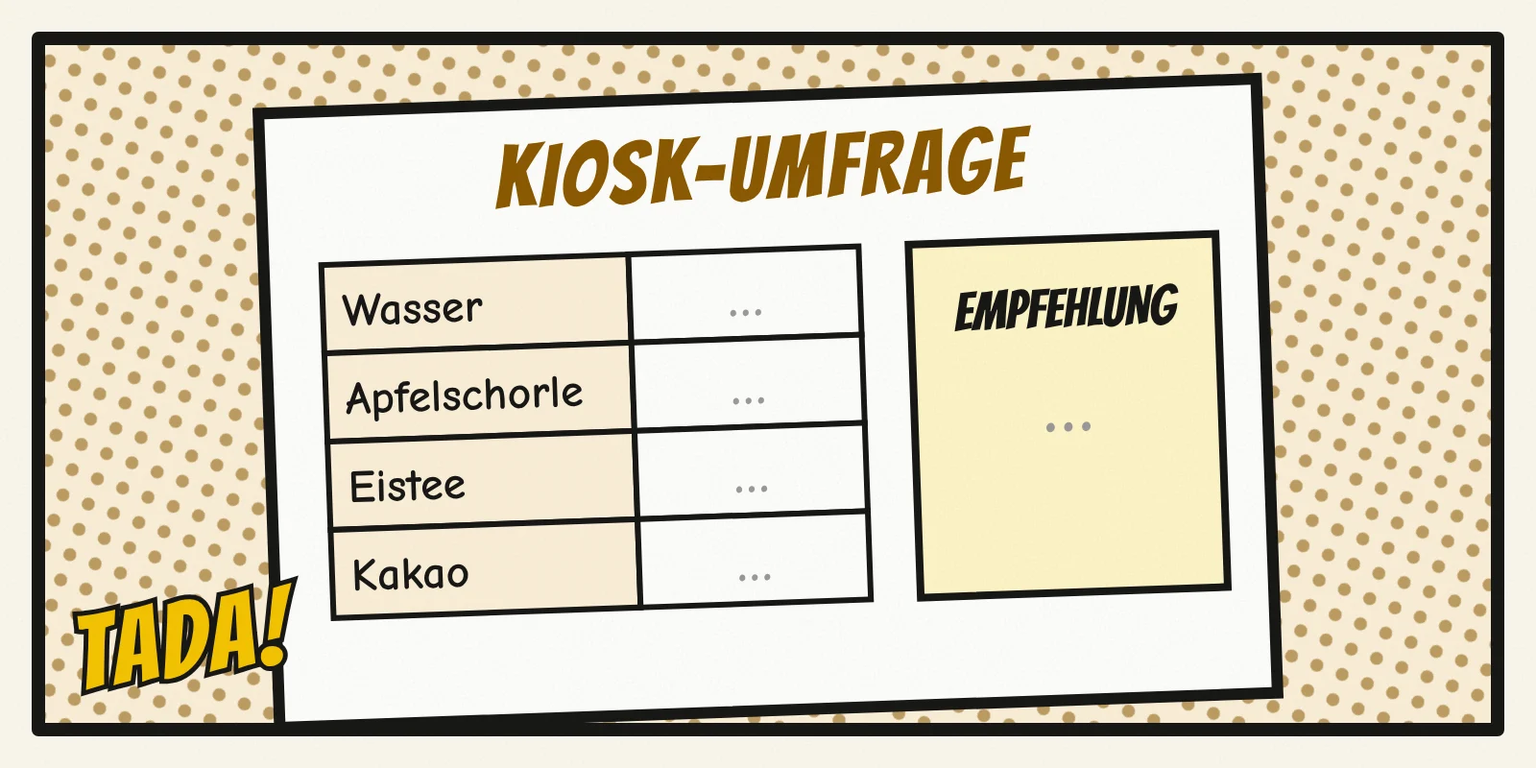
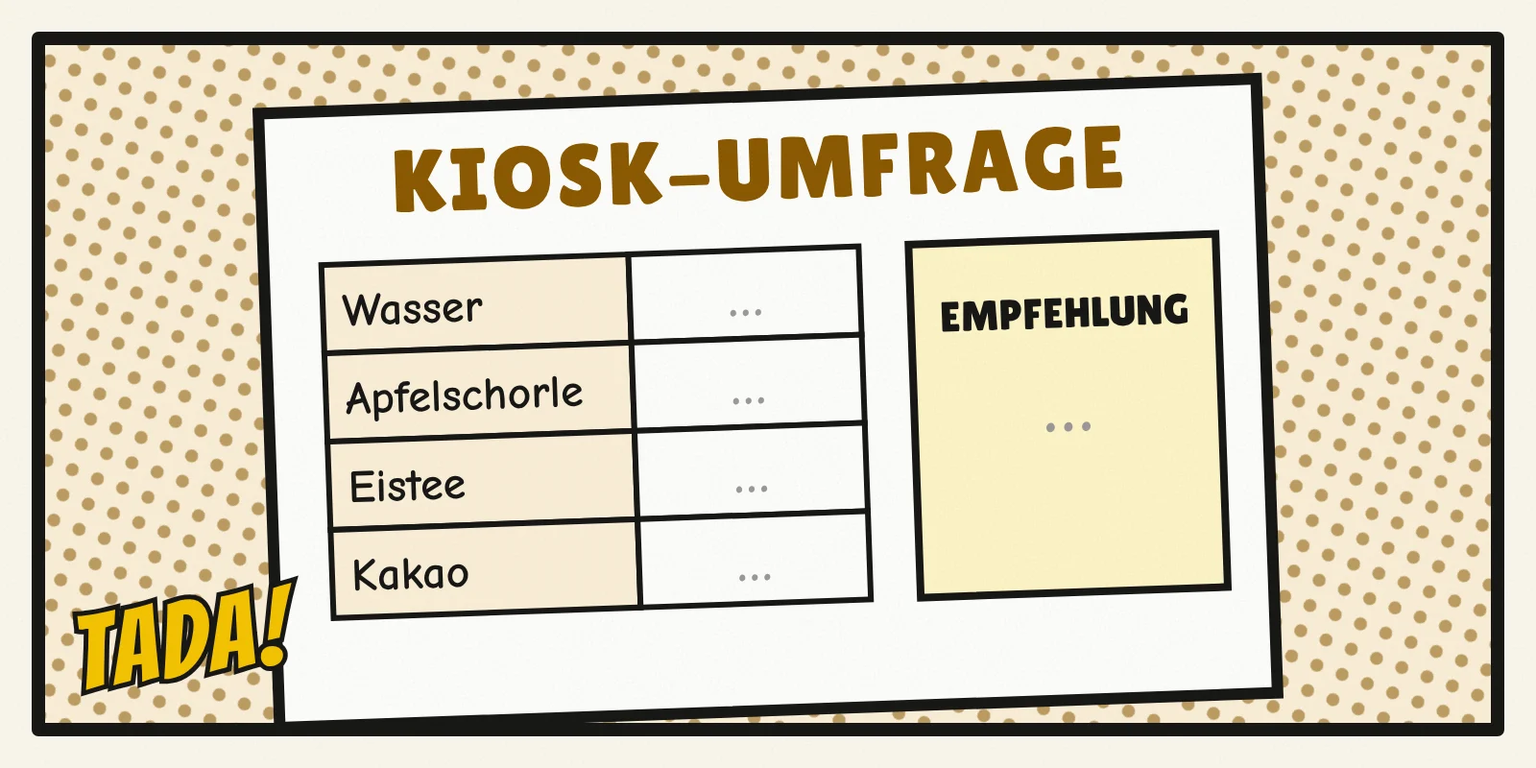
Bildwelt Comic: Lilita One statt Bangers für Überschriften und Beschriftungen
Ziffern und Gradzeichen waren in Bangers schlecht lesbar. Seiten (bildwelten.css) und Bilder aller Comic-Lernsituationen (Scooter, Kiosk, Drohne, Lichtwerk, Pizzabote, Drehleiter) neu gerendert; Bangers nur noch für Geräuschwörter. Regel im Skill ergänzt.

Claude-Session: https://claude.ai/code/session_01Aw7YPETzU1TFRJXXJhRhx4

Changed region(s): [[0.25, 0.1562, 0.75, 0.2812], [0.5938, 0.375, 0.7812, 0.4375]]

diff --git a/mathe-trainer/src/pages/lineare_funktionen/punkt_gerade_einstieg/bilder-quelle/drohne-titel.bild.html b/mathe-trainer/src/pages/lineare_funktionen/punkt_gerade_einstieg/bilder-quelle/drohne-titel.bild.html
@@ -1,7 +1,7 @@
 <!doctype html>
 <!-- Der Drohnen-Parcours, Titelbild. Bildwelt Comic / retro: drei Panels (Plakat Lichtshow, Drohne vor den Ringen, Hangar-Tor mit Code-Schloss).
      Rendern: node scripts/bilder-rendern.cjs src/pages/lineare_funktionen/punkt_gerade_einstieg -->
-<html><head><meta charset="utf-8"><link href="https://fonts.googleapis.com/css2?family=Bangers&family=Comic+Neue:wght@700&display=swap" rel="stylesheet"><style>body{margin:0}</style>
+<html><head><meta charset="utf-8"><link href="https://fonts.googleapis.com/css2?family=Bangers&family=Lilita+One&family=Comic+Neue:wght@700&display=swap" rel="stylesheet"><style>body{margin:0}</style>
 <script src="_comic.js"></script></head><body>
 <div id="bild" style="width:1200px;height:600px"></div>
 <script>
@@ -11,13 +11,13 @@ const drohne = (x, y, s = 1) => `<g transform="translate(${x} ${y}) scale(${s})"
  <line x1="-70" y1="-10" x2="70" y2="-10"/><rect x="-34" y="-26" width="68" height="34" rx="10" fill="#8a5800"/><circle cx="0" cy="-9" r="9" fill="#f2b632"/>
  <ellipse cx="-70" cy="-20" rx="34" ry="7" fill="#fff"/><ellipse cx="70" cy="-20" rx="34" ry="7" fill="#fff"/><line x1="-70" y1="-10" x2="-70" y2="-20"/><line x1="70" y1="-10" x2="70" y2="-20"/>
  <line x1="-20" y1="8" x2="-28" y2="22"/><line x1="20" y1="8" x2="28" y2="22"/></g>`;
-const ring = (x, y, r, name) => `<ellipse cx="${x}" cy="${y}" rx="${r * 0.55}" ry="${r}" fill="none" stroke="${ink}" stroke-width="12"/><ellipse cx="${x}" cy="${y}" rx="${r * 0.55}" ry="${r}" fill="none" stroke="#f2b632" stroke-width="6"/><text x="${x}" y="${y - r - 14}" font-family="Bangers" font-size="34" text-anchor="middle" fill="${ink}">${name}</text>`;
+const ring = (x, y, r, name) => `<ellipse cx="${x}" cy="${y}" rx="${r * 0.55}" ry="${r}" fill="none" stroke="${ink}" stroke-width="12"/><ellipse cx="${x}" cy="${y}" rx="${r * 0.55}" ry="${r}" fill="none" stroke="#f2b632" stroke-width="6"/><text x="${x}" y="${y - r - 14}" font-family="Lilita One" font-size="34" text-anchor="middle" fill="${ink}">${name}</text>`;
 let s = '';
 // Panel 1: Plakat
 s += C.panel('p1', '24,24 330,24 314,576 24,576', 'url(#pT)',
   `<g transform="rotate(-4 170 300)"><rect x="60" y="120" width="220" height="300" fill="#fff" stroke="${ink}" stroke-width="5"/>
-  <text x="170" y="190" font-family="Bangers" font-size="44" text-anchor="middle" fill="#8a5800">SCHULFEST</text>
-  <text x="170" y="250" font-family="Bangers" font-size="40" text-anchor="middle" fill="${ink}">LICHTSHOW</text>
+  <text x="170" y="190" font-family="Lilita One" font-size="44" text-anchor="middle" fill="#8a5800">SCHULFEST</text>
+  <text x="170" y="250" font-family="Lilita One" font-size="34" text-anchor="middle" fill="${ink}">LICHTSHOW</text>
   <text x="170" y="290" font-family="Comic Neue" font-weight="700" font-size="24" text-anchor="middle" fill="${ink}">mit Drohne</text>
   <circle cx="120" cy="350" r="22" fill="none" stroke="#f2b632" stroke-width="8"/><circle cx="170" cy="365" r="22" fill="none" stroke="#f2b632" stroke-width="8"/><circle cx="220" cy="350" r="22" fill="none" stroke="#f2b632" stroke-width="8"/></g>` +
   C.kasten(46, 470, 250, 70, 'Freitag, 21 Uhr', 30, 2));
@@ -31,8 +31,8 @@ s += C.panel('p2', '346,24 850,24 836,576 330,576', 'url(#pF)',
 s += C.panel('p3', '866,24 1176,24 1176,576 852,576', 'url(#pG)',
   `<rect x="890" y="170" width="262" height="380" fill="#c9b48a" stroke="${ink}" stroke-width="6"/>` +
   [0, 1, 2, 3, 4, 5].map((i) => `<line x1="890" x2="1152" y1="${220 + i * 55}" y2="${220 + i * 55}" stroke="${ink}" stroke-width="3"/>`).join('') +
-  `<rect x="926" y="300" width="190" height="110" rx="10" fill="#fff" stroke="${ink}" stroke-width="5"/><text x="1021" y="340" font-family="Bangers" font-size="30" text-anchor="middle" fill="${ink}">CODE</text>` +
-  [0, 1, 2].map((i) => `<rect x="${944 + i * 56}" y="352" width="44" height="44" rx="6" fill="#fbe8b8" stroke="${ink}" stroke-width="4"/><text x="${966 + i * 56}" y="386" font-family="Bangers" font-size="32" text-anchor="middle" fill="${ink}">?</text>`).join('') +
+  `<rect x="926" y="300" width="190" height="110" rx="10" fill="#fff" stroke="${ink}" stroke-width="5"/><text x="1021" y="340" font-family="Lilita One" font-size="30" text-anchor="middle" fill="${ink}">CODE</text>` +
+  [0, 1, 2].map((i) => `<rect x="${944 + i * 56}" y="352" width="44" height="44" rx="6" fill="#fbe8b8" stroke="${ink}" stroke-width="4"/><text x="${966 + i * 56}" y="386" font-family="Lilita One" font-size="32" text-anchor="middle" fill="${ink}">?</text>`).join('') +
   C.kasten(884, 60, 270, 74, 'HANGAR-TOR', 38, -2));
 document.getElementById('bild').innerHTML = `<svg xmlns="http://www.w3.org/2000/svg" width="1200" height="600" viewBox="0 0 1200 600">${C.defs}${C.papier(1200, 600)}${s}${C.korn(1200, 600)}</svg>`;
 </script>

diff --git a/mathe-trainer/src/pages/trigonometrie/strecken_einstieg/bilder-quelle/drehleiter-einsatz.bild.html b/mathe-trainer/src/pages/trigonometrie/strecken_einstieg/bilder-quelle/drehleiter-einsatz.bild.html
@@ -1,7 +1,7 @@
 <!doctype html>
 <!-- Die Drehleiter, Problem lösen. Bildwelt Comic / pop: Einsatzplan an der Tafel (rechtwinkliges Dreieck aus Leiter 30 m, Wand und Boden, 70°, h = ?, d = ?).
      Rendern: node scripts/bilder-rendern.cjs src/pages/trigonometrie/strecken_einstieg -->
-<html><head><meta charset="utf-8"><link href="https://fonts.googleapis.com/css2?family=Bangers&family=Comic+Neue:wght@700&display=swap" rel="stylesheet"><style>body{margin:0}</style>
+<html><head><meta charset="utf-8"><link href="https://fonts.googleapis.com/css2?family=Bangers&family=Lilita+One&family=Comic+Neue:wght@700&display=swap" rel="stylesheet"><style>body{margin:0}</style>
 <script src="_comic.js"></script><script src="_drehleiter.js"></script></head><body>
 <div id="bild" style="width:1200px;height:600px"></div>
 <script>
@@ -15,22 +15,22 @@ s += C.panel('p1', '24,24 1176,24 1170,576 30,576', 'url(#pT)',
   // Tafel
   `<rect x="150" y="60" width="900" height="500" rx="14" fill="#fff" stroke="${ink}" stroke-width="7"/>` +
   `<rect x="150" y="60" width="900" height="70" fill="${k}" stroke="${ink}" stroke-width="7"/>` +
-  `<text x="600" y="110" text-anchor="middle" font-family="Bangers" font-size="48" fill="#fff" letter-spacing="2">EINSATZPLAN DREHLEITER</text>` +
+  `<text x="600" y="110" text-anchor="middle" font-family="Lilita One" font-size="48" fill="#fff" letter-spacing="2">EINSATZPLAN DREHLEITER</text>` +
   // Dreieck
   `<polygon points="${A} ${B} ${S}" fill="#fbece3" stroke="none"/>` +
   `<line x1="${A[0]}" y1="${A[1]}" x2="${S[0]}" y2="${S[1]}" stroke="${k}" stroke-width="10" stroke-linecap="round"/>` +
   `<line x1="${A[0]}" y1="${A[1]}" x2="${B[0]}" y2="${B[1]}" stroke="${ink}" stroke-width="6"/>` +
   `<line x1="${B[0]}" y1="${B[1]}" x2="${S[0]}" y2="${S[1]}" stroke="${ink}" stroke-width="6"/>` +
   `<path d="M${B[0] - 26} ${B[1]} v-26 h26" fill="none" stroke="${ink}" stroke-width="4"/>` +
-  DL.winkel(A[0], A[1], w, 60, '', 42).replace(/<line[^>]*\/>/, '') + `<text x="${A[0] - 40}" y="${A[1] - 26}" text-anchor="end" font-family="Bangers" font-size="46" fill="${ink}" letter-spacing="1">70°</text><path d="M${A[0] - 36} ${A[1] - 40} Q${A[0] + 4} ${A[1] - 60} ${A[0] + 30} ${A[1] - 26}" fill="none" stroke="${ink}" stroke-width="3"/>` +
-  `<text x="${(A[0] + S[0]) / 2 - 30}" y="${(A[1] + S[1]) / 2}" text-anchor="end" font-family="Bangers" font-size="46" fill="${k}" letter-spacing="1">Leiter 30 m</text>` +
+  DL.winkel(A[0], A[1], w, 60, '', 42).replace(/<line[^>]*\/>/, '') + `<text x="${A[0] - 40}" y="${A[1] - 26}" text-anchor="end" font-family="Lilita One" font-size="46" fill="${ink}" letter-spacing="1">70°</text><path d="M${A[0] - 36} ${A[1] - 40} Q${A[0] + 4} ${A[1] - 60} ${A[0] + 30} ${A[1] - 26}" fill="none" stroke="${ink}" stroke-width="3"/>` +
+  `<text x="${(A[0] + S[0]) / 2 - 30}" y="${(A[1] + S[1]) / 2}" text-anchor="end" font-family="Lilita One" font-size="46" fill="${k}" letter-spacing="1">Leiter 30 m</text>` +
   `<text x="${B[0] + 22}" y="${(B[1] + S[1]) / 2 + 14}" font-family="Comic Neue" font-weight="700" font-style="italic" font-size="46" fill="${ink}">h = ?</text>` +
   `<text x="${(A[0] + B[0]) / 2}" y="${A[1] + 46}" text-anchor="middle" font-family="Comic Neue" font-weight="700" font-style="italic" font-size="44" fill="${ink}">d = ?</text>` +
   `<text x="${B[0] + 22}" y="${S[1] + 10}" font-family="Comic Neue" font-weight="700" font-size="28" fill="${ink}">Spitze an der Wand</text>` +
   `<text x="${A[0] - 20}" y="${A[1] + 46}" text-anchor="end" font-family="Comic Neue" font-weight="700" font-size="28" fill="${ink}">Drehpunkt</text>` +
   // Notizzettel rechts
   `<g transform="rotate(4 900 380)"><rect x="790" y="260" width="230" height="200" fill="#fff6c9" stroke="${ink}" stroke-width="5"/>` +
-  `<text x="905" y="310" text-anchor="middle" font-family="Bangers" font-size="34" fill="${ink}" letter-spacing="1">GESUCHT</text>` +
+  `<text x="905" y="310" text-anchor="middle" font-family="Lilita One" font-size="34" fill="${ink}" letter-spacing="1">GESUCHT</text>` +
   `<text x="905" y="360" text-anchor="middle" font-family="Comic Neue" font-weight="700" font-size="26" fill="${ink}">Höhe h der Spitze</text>` +
   `<text x="905" y="400" text-anchor="middle" font-family="Comic Neue" font-weight="700" font-size="26" fill="${ink}">Abstand d</text>` +
   `<text x="905" y="434" text-anchor="middle" font-family="Comic Neue" font-weight="700" font-size="26" fill="${ink}">zur Wand</text></g>`);

diff --git a/mathe-trainer/src/pages/lineare_funktionen/lernsituation_kit/bildwelten.css b/mathe-trainer/src/pages/lineare_funktionen/lernsituation_kit/bildwelten.css
@@ -28,7 +28,7 @@
 @import '@fontsource/barlow-condensed/500.css';
 @import '@fontsource/barlow-condensed/600.css';
 @import '@fontsource/barlow-condensed/700.css';
-@import '@fontsource/bangers/400.css';
+@import '@fontsource/lilita-one/400.css';
 @import '@fontsource/atkinson-hyperlegible/400.css';
 @import '@fontsource/atkinson-hyperlegible/700.css';
 @import '@fontsource/instrument-sans/400.css';
@@ -551,10 +551,11 @@
 /* ══ E Comic ═════════════════════════════════════════════════════════════════════════════════════════════════
    Die Situation als Bildergeschichte: jede Seite ein Heftblatt mit Tuscherand und hartem Versatzschatten, Bilder als Panels,
    Auftrag als Erzählkasten, Knöpfe mit dickem Rand, die beim Drücken einsinken.
-   Überschriften Bangers, Fließtext Atkinson Hyperlegible. Unter-Varianten: pop, retro, manga, storyboard. */
+   Überschriften Lilita One (kräftig, aber mit gut lesbaren Ziffern und Gradzeichen; Bangers war zu verschnörkelt, seit 2026-11-07),
+   Fließtext Atkinson Hyperlegible. Unter-Varianten: pop, retro, manga, storyboard. */
 .sl-welt-comic {
   --font-body: 'Atkinson Hyperlegible', 'Segoe UI', system-ui, sans-serif;
-  --font-display: 'Bangers', 'Impact', system-ui, sans-serif;
+  --font-display: 'Lilita One', 'Atkinson Hyperlegible', system-ui, sans-serif;
   --co-tusche: #161616;
   --co-papier: #fffdf8;
   --co-kasten: #ffe45c;
@@ -580,18 +581,18 @@
 
 .sl-welt-comic .sl-titel,
 .sl-start.sl-welt-comic h2,
-.sl-start.sl-welt-comic.sl-thema h2 { font: 400 40px/1.02 var(--font-display); letter-spacing: 0.025em; color: var(--co-tusche); }
+.sl-start.sl-welt-comic.sl-thema h2 { font: 400 34px/1.1 var(--font-display); letter-spacing: 0.01em; color: var(--co-tusche); }
 .sl-start.sl-welt-comic.sl-thema h2 { color: var(--primary); }
-.sl-welt-comic .sl-abschnitt-titel { font: 400 29px/1.1 var(--font-display); letter-spacing: 0.025em; color: var(--co-tusche); }
+.sl-welt-comic .sl-abschnitt-titel { font: 400 25px/1.15 var(--font-display); letter-spacing: 0.01em; color: var(--co-tusche); }
 .sl-welt-comic .sl-abschnitt-titel i { font-size: 20px; color: var(--primary); }
-.sl-welt-comic .sl-marke { font: 400 20px/1 var(--font-display); letter-spacing: 0.03em; border: 2px solid var(--co-tusche); }
+.sl-welt-comic .sl-marke { font: 400 18px/1 var(--font-display); letter-spacing: 0.01em; border: 2px solid var(--co-tusche); }
 .sl-welt-comic .sl-text,
 .sl-start.sl-welt-comic .sl-start-ziel { font-size: 18px; line-height: 1.55; color: var(--co-tusche); }
 .sl-welt-comic .sl-phasen li { border: 2px solid var(--co-tusche); border-radius: 3px; background: #fff; }
 
 /* Fokus = Erzählkasten */
 .sl-welt-comic .sl-fokus { margin-top: 6px; padding: 14px 18px; background: var(--co-kasten); border: var(--co-rand) solid var(--co-tusche); border-radius: 0; box-shadow: 4px 4px 0 var(--co-tusche); transform: rotate(-0.4deg); }
-.sl-welt-comic .sl-fokus-titel { font: 400 25px/1.1 var(--font-display); letter-spacing: 0.03em; color: var(--co-tusche); }
+.sl-welt-comic .sl-fokus-titel { font: 400 22px/1.2 var(--font-display); letter-spacing: 0.01em; color: var(--co-tusche); }
 .sl-welt-comic.sl-variante-manga .sl-fokus,
 .sl-welt-comic.sl-variante-storyboard .sl-fokus { transform: none; }
 .sl-start.sl-welt-comic .sl-start-regel { background: var(--co-kasten); border: var(--co-rand) solid var(--co-tusche); border-radius: 0; }

diff --git a/mathe-trainer/src/pages/quadratische_funktionen/scheitelpunkt_einstieg/bilder-quelle/lichtwerk-titel.bild.html b/mathe-trainer/src/pages/quadratische_funktionen/scheitelpunkt_einstieg/bilder-quelle/lichtwerk-titel.bild.html
@@ -1,7 +1,7 @@
 <!doctype html>
 <!-- Das Lichtwerk, Titelbild. Bildwelt Comic / manga: Schwarzweiß mit Rasterfolie, drei Panels (Tür fällt zu, Code-Display, Brunnen-Strahl).
      Rendern: node scripts/bilder-rendern.cjs src/pages/quadratische_funktionen/scheitelpunkt_einstieg -->
-<html><head><meta charset="utf-8"><link href="https://fonts.googleapis.com/css2?family=Bangers&family=Comic+Neue:wght@700&display=swap" rel="stylesheet"><style>body{margin:0}</style>
+<html><head><meta charset="utf-8"><link href="https://fonts.googleapis.com/css2?family=Bangers&family=Lilita+One&family=Comic+Neue:wght@700&display=swap" rel="stylesheet"><style>body{margin:0}</style>
 <script src="_comic.js"></script></head><body>
 <div id="bild" style="width:1200px;height:600px"></div>
 <script>
@@ -16,8 +16,8 @@ s += C.panel('p1', '24,24 420,24 400,576 24,576', 'url(#pF)',
 // Panel 2: Türdisplay mit Code
 s += C.panel('p2', '436,24 800,24 786,576 416,576', '#fff',
   `<rect x="470" y="120" width="290" height="230" rx="16" fill="#2b2b2b" stroke="${ink}" stroke-width="7"/>` +
-  `<text x="615" y="180" font-family="Bangers" font-size="40" text-anchor="middle" fill="#fff" letter-spacing="2">TÜRCODE</text>` +
-  [0, 1, 2, 3].map((i) => `<rect x="${492 + i * 64}" y="210" width="54" height="64" rx="6" fill="#fff" stroke="${ink}" stroke-width="3"/><text x="${519 + i * 64}" y="256" font-family="Bangers" font-size="40" text-anchor="middle" fill="${ink}">?</text>`).join('') +
+  `<text x="615" y="180" font-family="Lilita One" font-size="40" text-anchor="middle" fill="#fff" letter-spacing="2">TÜRCODE</text>` +
+  [0, 1, 2, 3].map((i) => `<rect x="${492 + i * 64}" y="210" width="54" height="64" rx="6" fill="#fff" stroke="${ink}" stroke-width="3"/><text x="${519 + i * 64}" y="256" font-family="Lilita One" font-size="40" text-anchor="middle" fill="${ink}">?</text>`).join('') +
   `<text x="615" y="320" font-family="Comic Neue" font-weight="700" font-size="22" text-anchor="middle" fill="#ddd">4 Teile</text>` +
   C.blase(440, 400, 330, 140, 600, 360, ['Die Zahlen stecken', 'im Brunnen, den ich', 'letzte Woche gebaut hab!'], 26));
 // Panel 3: Brunnen-Strahl als Parabel, höchster Punkt mit Fragezeichen
@@ -27,7 +27,7 @@ s += C.panel('p3', '816,24 1176,24 1176,576 802,576', 'url(#pT)',
   `<rect x="802" y="${Y(0)}" width="380" height="80" fill="#fff" stroke="${ink}" stroke-width="5"/>` +
   `<rect x="${X(0) - 10}" y="${Y(1)}" width="20" height="${Y(0) - Y(1)}" fill="${ink}"/><rect x="${X(7)}" y="${Y(1)}" width="60" height="${Y(0) - Y(1)}" fill="#fff" stroke="${ink}" stroke-width="5"/>` +
   `<polyline points="${strahl}" fill="none" stroke="#fff" stroke-width="14" stroke-linecap="round"/><polyline points="${strahl}" fill="none" stroke="${ink}" stroke-width="5" stroke-dasharray="14 8" stroke-linecap="round"/>` +
-  `<text x="${X(3.5)}" y="${Y(5.9) - 18}" font-family="Bangers" font-size="64" text-anchor="middle" fill="#fff" stroke="${ink}" stroke-width="5" paint-order="stroke">?</text>` +
+  `<text x="${X(3.5)}" y="${Y(5.9) - 18}" font-family="Lilita One" font-size="64" text-anchor="middle" fill="#fff" stroke="${ink}" stroke-width="5" paint-order="stroke">?</text>` +
   C.kasten(836, 44, 310, 62, 'Wie hoch spritzt er?', 30, -2));
 document.getElementById('bild').innerHTML = `<svg xmlns="http://www.w3.org/2000/svg" width="1200" height="600" viewBox="0 0 1200 600">${C.defs}${C.papier(1200, 600)}${s}${C.korn(1200, 600)}</svg>`;
 </script>

diff --git a/mathe-trainer/src/pages/lineare_funktionen/funktionsgleichung_einstieg/bilder-quelle/scooter-app.bild.html b/mathe-trainer/src/pages/lineare_funktionen/funktionsgleichung_einstieg/bilder-quelle/scooter-app.bild.html
@@ -1,7 +1,7 @@
 <!doctype html>
 <!-- Die Scooter-App, Fahrtenverlauf. Bildwelt Comic / pop: Handy mit zwei Fahrten, Tarif wird nicht angezeigt.
      Rendern: node scripts/bilder-rendern.cjs src/pages/lineare_funktionen/funktionsgleichung_einstieg -->
-<html><head><meta charset="utf-8"><link href="https://fonts.googleapis.com/css2?family=Bangers&family=Comic+Neue:wght@700&display=swap" rel="stylesheet"><style>body{margin:0}</style>
+<html><head><meta charset="utf-8"><link href="https://fonts.googleapis.com/css2?family=Bangers&family=Lilita+One&family=Comic+Neue:wght@700&display=swap" rel="stylesheet"><style>body{margin:0}</style>
 <script src="_comic.js"></script></head><body>
 <div id="bild" style="width:1200px;height:600px"></div>
 <script>
@@ -11,13 +11,13 @@ let s = '';
 const zeile = (y, a, b, c) => `<rect x="420" y="${y}" width="360" height="92" rx="12" fill="#d9eef0" stroke="${ink}" stroke-width="4"/>
  <text x="444" y="${y + 38}" font-family="Comic Neue" font-weight="700" font-size="30" fill="${ink}">${a}</text>
  <text x="444" y="${y + 74}" font-family="Comic Neue" font-weight="700" font-size="26" fill="#3b4a4c">${b}</text>
- <text x="760" y="${y + 42}" font-family="Bangers" font-size="42" text-anchor="end" fill="${ink}" letter-spacing="1">${c}</text>`;
+ <text x="760" y="${y + 42}" font-family="Lilita One" font-size="42" text-anchor="end" fill="${ink}" letter-spacing="1">${c}</text>`;
 let inhalt = `<g stroke="#fff" stroke-width="6" opacity=".9">${[0,1,2,3,4,5,6,7].map(i=>`<line x1="600" y1="300" x2="${600+700*Math.cos(i*Math.PI/4+.3)}" y2="${300+700*Math.sin(i*Math.PI/4+.3)}"/>`).join('')}</g>`;
 inhalt += `<rect x="390" y="30" width="420" height="560" rx="44" fill="#fff" stroke="${ink}" stroke-width="7"/>`;
-inhalt += `<rect x="420" y="66" width="360" height="70" rx="12" fill="#0e6670" stroke="${ink}" stroke-width="4"/><text x="600" y="114" font-family="Bangers" font-size="42" text-anchor="middle" fill="#fff" letter-spacing="2">MEINE FAHRTEN</text>`;
+inhalt += `<rect x="420" y="66" width="360" height="70" rx="12" fill="#0e6670" stroke="${ink}" stroke-width="4"/><text x="600" y="114" font-family="Lilita One" font-size="42" text-anchor="middle" fill="#fff" letter-spacing="2">MEINE FAHRTEN</text>`;
 inhalt += zeile(160, 'Fahrt 1', 'Montag, 8 Minuten', '2,60 €') + zeile(272, 'Fahrt 2', 'Mittwoch, 20 Minuten', '5,00 €');
 inhalt += `<line x1="420" x2="780" y1="392" y2="392" stroke="${ink}" stroke-width="3" stroke-dasharray="8 8"/>`;
-inhalt += `<text x="444" y="440" font-family="Comic Neue" font-weight="700" font-size="30" fill="${ink}">Guthaben</text><text x="760" y="440" font-family="Bangers" font-size="44" text-anchor="end" fill="${ink}">7,20 €</text>`;
+inhalt += `<text x="444" y="440" font-family="Comic Neue" font-weight="700" font-size="30" fill="${ink}">Guthaben</text><text x="760" y="440" font-family="Lilita One" font-size="44" text-anchor="end" fill="${ink}">7,20 €</text>`;
 inhalt += `<rect x="420" y="470" width="360" height="62" rx="12" fill="#fff6c9" stroke="${ink}" stroke-width="4"/><text x="600" y="512" font-family="Comic Neue" font-weight="700" font-size="28" text-anchor="middle" fill="${ink}">Tarif: wird nicht angezeigt</text>`;
 inhalt += C.blase(40, 70, 300, 120, 388, 240, ['Wie viel kostet', 'die Minute?'], 32);
 inhalt += C.blase(860, 330, 300, 120, 812, 300, ['Und was kostet', 'das Entsperren?'], 32);

diff --git a/mathe-trainer/src/pages/trigonometrie/strecken_einstieg/bilder-quelle/drehleiter-uebung.bild.html b/mathe-trainer/src/pages/trigonometrie/strecken_einstieg/bilder-quelle/drehleiter-uebung.bild.html
@@ -1,7 +1,7 @@
 <!doctype html>
 <!-- Die Drehleiter, Problem erkennen. Bildwelt Comic / pop: links Fahrzeug mit Leiter (30 m, 70°) an der Wand, Höhe h gesucht; rechts das Funkgerät des Gruppenführers.
      Rendern: node scripts/bilder-rendern.cjs src/pages/trigonometrie/strecken_einstieg -->
-<html><head><meta charset="utf-8"><link href="https://fonts.googleapis.com/css2?family=Bangers&family=Comic+Neue:wght@700&display=swap" rel="stylesheet"><style>body{margin:0}</style>
+<html><head><meta charset="utf-8"><link href="https://fonts.googleapis.com/css2?family=Bangers&family=Lilita+One&family=Comic+Neue:wght@700&display=swap" rel="stylesheet"><style>body{margin:0}</style>
 <script src="_comic.js"></script><script src="_drehleiter.js"></script></head><body>
 <div id="bild" style="width:1200px;height:600px"></div>
 <script>
@@ -16,15 +16,15 @@ s += C.panel('p1', '24,24 760,24 744,576 24,576', 'url(#pF)',
   `<rect x="${ex + 130}" y="${ey + 22}" width="70" height="50" fill="#f5c400" stroke="${ink}" stroke-width="4"/>` +
   DL.fahrzeug(dx, dy, len, w, 1) +
   DL.winkel(dx, dy, w, 64, '70°', 42) +
-  `<text x="${dx + 210 * Math.cos(DL.rad(w)) - 40}" y="${dy - 210 * Math.sin(DL.rad(w))}" text-anchor="end" font-family="Bangers" font-size="46" fill="${ink}" stroke="#fff" stroke-width="7" paint-order="stroke" letter-spacing="1">30 m</text>` +
+  `<text x="${dx + 210 * Math.cos(DL.rad(w)) - 40}" y="${dy - 210 * Math.sin(DL.rad(w))}" text-anchor="end" font-family="Lilita One" font-size="46" fill="${ink}" stroke="#fff" stroke-width="7" paint-order="stroke" letter-spacing="1">30 m</text>` +
   `<rect x="${ex+6}" y="${ey-6}" width="110" height="${dy-ey+12}" fill="#fbece3"/>` + DL.mass(ex + 36, ey, dy, 'h = ?', 50, false, 'Comic Neue') +
-  `<text x="${ex + 130}" y="${ey + 110}" font-family="Bangers" font-size="34" fill="${ink}" stroke="#fff" stroke-width="6" paint-order="stroke" letter-spacing="1">Fenster: 26 m</text>` +
+  `<text x="${ex + 130}" y="${ey + 110}" font-family="Lilita One" font-size="34" fill="${ink}" stroke="#fff" stroke-width="6" paint-order="stroke" letter-spacing="1">Fenster: 26 m</text>` +
   C.kasten(44, 44, 290, 64, 'Die Übung', 38, -2));
 // Panel 2: Funkgerät
 s += C.panel('p2', '780,24 1176,24 1176,576 766,576', 'url(#pT)',
   `<g stroke="${ink}" stroke-width="6" stroke-linejoin="round"><rect x="900" y="330" width="150" height="230" rx="18" fill="#2b2b2b"/><rect x="1010" y="250" width="16" height="90" fill="#2b2b2b"/>
    <rect x="920" y="352" width="110" height="60" rx="6" fill="#d6eef2"/>${[0, 1, 2].map(i => `<line x1="925" y1="${450 + i * 26}" x2="1025" y2="${450 + i * 26}" stroke="#777" stroke-width="5"/>`).join('')}</g>` +
-  `<text x="975" y="392" text-anchor="middle" font-family="Bangers" font-size="30" fill="${ink}">KANAL 4</text>` +
+  `<text x="975" y="392" text-anchor="middle" font-family="Lilita One" font-size="24" fill="${ink}">KANAL 4</text>` +
   C.blase(796, 56, 364, 196, 960, 330, ['Wie hoch liegt die', 'Leiterspitze über', 'dem Drehpunkt?', 'Auf 5 cm genau!'], 30) +
   C.laut(800, 330, 'KRRZ!', 48, -10));
 document.getElementById('bild').innerHTML = `<svg xmlns="http://www.w3.org/2000/svg" width="1200" height="600" viewBox="0 0 1200 600">${C.defs}${C.papier(1200, 600)}${s}${C.korn(1200, 600)}</svg>`;

diff --git a/mathe-trainer/src/pages/daten_und_zufall/lernsituationen/kennwerte/bilder-quelle/pizzabote-titel.bild.html b/mathe-trainer/src/pages/daten_und_zufall/lernsituationen/kennwerte/bilder-quelle/pizzabote-titel.bild.html
@@ -1,7 +1,7 @@
 <!doctype html>
 <!-- Der Pizzabote, Titelbild. Bildwelt Comic / Storyboard (graue Marker + Beere): drei Szenen (Werbung „20 min!“, Klasse wartet mit Stoppuhr, Roller mit Karton).
      Rendern: node scripts/bilder-rendern.cjs src/pages/daten_und_zufall/lernsituationen/kennwerte -->
-<html><head><meta charset="utf-8"><link href="https://fonts.googleapis.com/css2?family=Bangers&family=Comic+Neue:wght@700&display=swap" rel="stylesheet"><style>body{margin:0}</style><script src="_storyboard.js"></script></head><body>
+<html><head><meta charset="utf-8"><link href="https://fonts.googleapis.com/css2?family=Bangers&family=Lilita+One&family=Comic+Neue:wght@700&display=swap" rel="stylesheet"><style>body{margin:0}</style><script src="_storyboard.js"></script></head><body>
 <div id="bild" style="width:1200px;height:600px"></div>
 <script>
 const S = SB('#a0275e');
@@ -11,21 +11,21 @@ g += S.rahmen(30, 70, 360, 470, 1, 'Totale',
   S.grau('M30 430 H390 V540 H30 Z', 0) +
   S.grau('M70 120 H350 V400 H70 Z', 0) + S.linie('M70 120 H350 V400 H70 Z') +
   S.notiz(210, 180, 'Blitz-Pizza', 34, 'middle') + S.notiz(210, 230, '&amp; Mamma Mia', 30, 'middle') +
-  S.akz('M110 260 H310 V360 H110 Z') + `<text x="210" y="330" text-anchor="middle" font-family="Bangers" font-size="60" fill="#fff">20 MIN!</text>` +
+  S.akz('M110 260 H310 V360 H110 Z') + `<text x="210" y="330" text-anchor="middle" font-family="Lilita One" font-size="46" fill="#fff">20 MIN!</text>` +
   S.notiz(210, 500, '„Wir liefern in 20 Minuten!“', 22, 'middle'));
 // Szene 2: Stoppuhr groß
 g += S.rahmen(420, 70, 360, 470, 2, 'Nah', 
   S.grau('M420 70 H780 V540 H420 Z', 0) +
   `<circle cx="600" cy="320" r="140" fill="#fff"/>` + S.grau('M600 180 A140 140 0 0 1 740 320 L600 320 Z', 1) +
   S.linie('M600 180 A140 140 0 1 1 599 180') + S.linie('M580 150 H620 M600 150 V180') + S.linie('M600 320 L690 250', 6) +
-  `<text x="600" y="420" text-anchor="middle" font-family="Bangers" font-size="64" fill="#a0275e">44 MIN?!</text>` +
+  `<text x="600" y="420" text-anchor="middle" font-family="Lilita One" font-size="64" fill="#a0275e">44 MIN?!</text>` +
   S.notiz(600, 520, 'Jonas stoppt mit', 24, 'middle'));
 // Szene 3: Roller mit Pizzakarton
 g += S.rahmen(810, 70, 360, 470, 3, 'Halbtotale, Fahrt', 
   S.grau('M810 420 H1170 V540 H810 Z', 1) +
   S.linie('M860 420 Q900 300 980 330 L1060 330 L1100 420') + `<circle cx="880" cy="430" r="34" fill="#fff"/><circle cx="1100" cy="430" r="34" fill="#fff"/>` +
   S.linie('M880 430 m-34 0 a34 34 0 1 0 68 0 a34 34 0 1 0 -68 0') + S.linie('M1100 430 m-34 0 a34 34 0 1 0 68 0 a34 34 0 1 0 -68 0') +
-  S.akz('M960 250 H1100 V310 H960 Z') + S.linie('M960 250 H1100 V310 H960 Z') + `<text x="1030" y="290" text-anchor="middle" font-family="Bangers" font-size="30" fill="#fff">PIZZA</text>` +
+  S.akz('M960 250 H1100 V310 H960 Z') + S.linie('M960 250 H1100 V310 H960 Z') + `<text x="1030" y="290" text-anchor="middle" font-family="Lilita One" font-size="24" fill="#fff">PIZZA</text>` +
   S.linie('M1060 330 L1080 200 M1060 200 H1110', 5) +
   S.linie('M830 300 H900 M820 340 H880 M840 380 H910', 3) +
   S.notiz(990, 140, 'Wer ist im Schnitt', 26, 'middle') + S.notiz(990, 172, 'schneller?', 26, 'middle'));

diff --git a/mathe-trainer/src/pages/lineare_funktionen/funktionsgleichung_einstieg/bilder-quelle/scooter-titel.bild.html b/mathe-trainer/src/pages/lineare_funktionen/funktionsgleichung_einstieg/bilder-quelle/scooter-titel.bild.html
@@ -1,7 +1,7 @@
 <!doctype html>
 <!-- Die Scooter-App, Titelbild. Bildwelt Comic / pop: drei Panels (Guthaben, Fahrt zum See, Wegweiser 30 min).
      Rendern: node scripts/bilder-rendern.cjs src/pages/lineare_funktionen/funktionsgleichung_einstieg -->
-<html><head><meta charset="utf-8"><link href="https://fonts.googleapis.com/css2?family=Bangers&family=Comic+Neue:wght@700&display=swap" rel="stylesheet"><style>body{margin:0}</style>
+<html><head><meta charset="utf-8"><link href="https://fonts.googleapis.com/css2?family=Bangers&family=Lilita+One&family=Comic+Neue:wght@700&display=swap" rel="stylesheet"><style>body{margin:0}</style>
 <script src="_comic.js"></script></head><body>
 <div id="bild" style="width:1200px;height:600px"></div>
 <script>
@@ -9,8 +9,8 @@ const C = CO('#0e6670', '#d9eef0');
 const ink = '#141414';
 const handy = (x, y, s = 1) => `<g transform="translate(${x} ${y}) scale(${s})" stroke="${ink}" stroke-width="5" stroke-linejoin="round">
  <rect x="0" y="0" width="200" height="330" rx="28" fill="#fff"/><rect x="18" y="26" width="164" height="54" rx="8" fill="#0e6670"/>
- <text x="100" y="62" font-family="Bangers" font-size="30" fill="#fff" stroke="none" text-anchor="middle" letter-spacing="1">GUTHABEN</text>
- <text x="100" y="150" font-family="Bangers" font-size="62" fill="${ink}" stroke="none" text-anchor="middle">7,20 €</text>
+ <text x="100" y="62" font-family="Lilita One" font-size="30" fill="#fff" stroke="none" text-anchor="middle" letter-spacing="1">GUTHABEN</text>
+ <text x="100" y="150" font-family="Lilita One" font-size="62" fill="${ink}" stroke="none" text-anchor="middle">7,20 €</text>
  <rect x="18" y="200" width="164" height="54" rx="8" fill="#fff6c9"/>
  <text x="100" y="236" font-family="Comic Neue" font-weight="700" font-size="26" fill="${ink}" stroke="none" text-anchor="middle">Tarif: ???</text>
  <circle cx="100" cy="300" r="12" fill="#ddd"/></g>`;
@@ -28,7 +28,7 @@ s += C.panel('p3', '836,24 1176,24 1176,576 822,576', 'url(#pG)',
   `<ellipse cx="1010" cy="560" rx="230" ry="60" fill="#8fd0d6" stroke="${ink}" stroke-width="5"/>` +
   `<g stroke="${ink}" stroke-width="6" stroke-linejoin="round"><line x1="960" y1="520" x2="960" y2="250"/>` +
   `<polygon points="880,210 1090,210 1124,250 1090,290 880,290" fill="#fff"/></g>` +
-  `<text x="992" y="246" font-family="Bangers" font-size="40" text-anchor="middle" fill="${ink}" letter-spacing="1">BADESEE</text>` +
+  `<text x="992" y="246" font-family="Lilita One" font-size="40" text-anchor="middle" fill="${ink}" letter-spacing="1">BADESEE</text>` +
   `<text x="992" y="280" font-family="Comic Neue" font-weight="700" font-size="28" text-anchor="middle" fill="${ink}">30 min</text>` +
   C.blase(860, 60, 290, 96, 950, 196, ['Was kostet das?'], 30));
 document.getElementById('bild').innerHTML = `<svg xmlns="http://www.w3.org/2000/svg" width="1200" height="600" viewBox="0 0 1200 600">${C.defs}${C.papier(1200, 600)}${s}${C.korn(1200, 600)}</svg>`;

diff --git a/mathe-trainer/src/pages/daten_und_zufall/lernsituationen/daten-ordnen/bilder-quelle/kiosk-plakat.bild.html b/mathe-trainer/src/pages/daten_und_zufall/lernsituationen/daten-ordnen/bilder-quelle/kiosk-plakat.bild.html
@@ -1,16 +1,16 @@
 <!doctype html>
 <!-- Der Pausenkiosk, Handlungsprodukt: Plakat „Kiosk-Umfrage“ mit Strichliste, Häufigkeitstabelle und Empfehlung. Bildwelt Comic / pop.
      Rendern: node scripts/bilder-rendern.cjs src/pages/daten_und_zufall/lernsituationen/daten-ordnen -->
-<html><head><meta charset="utf-8"><link href="https://fonts.googleapis.com/css2?family=Bangers&family=Comic+Neue:wght@700&display=swap" rel="stylesheet"><style>body{margin:0}</style>
+<html><head><meta charset="utf-8"><link href="https://fonts.googleapis.com/css2?family=Bangers&family=Lilita+One&family=Comic+Neue:wght@700&display=swap" rel="stylesheet"><style>body{margin:0}</style>
 <script src="_comic.js"></script></head><body>
 <div id="bild" style="width:800px;height:400px"></div>
 <script>
 const C = CO('#8a5800', '#fbf0da');
 const ink = '#141414';
 let inhalt = `<g transform="rotate(-2 400 210)"><rect x="140" y="50" width="520" height="320" fill="#fff" stroke="${ink}" stroke-width="6"/>` +
-  `<text x="400" y="104" font-family="Bangers" font-size="46" text-anchor="middle" fill="#8a5800" letter-spacing="2">KIOSK-UMFRAGE</text>` +
+  `<text x="400" y="104" font-family="Lilita One" font-size="46" text-anchor="middle" fill="#8a5800" letter-spacing="2">KIOSK-UMFRAGE</text>` +
   ['Wasser', 'Apfelschorle', 'Eistee', 'Kakao'].map((t, i) => `<rect x="170" y="${130 + i * 46}" width="160" height="46" fill="#fbf0da" stroke="${ink}" stroke-width="3"/><text x="180" y="${162 + i * 46}" font-family="Comic Neue" font-weight="700" font-size="24" fill="${ink}">${t}</text><rect x="330" y="${130 + i * 46}" width="120" height="46" fill="#fff" stroke="${ink}" stroke-width="3"/><text x="390" y="${164 + i * 46}" font-family="Comic Neue" font-weight="700" font-size="28" text-anchor="middle" fill="#999">…</text>`).join('') +
-  `<rect x="476" y="130" width="160" height="184" fill="#fff6c9" stroke="${ink}" stroke-width="4"/><text x="556" y="176" font-family="Bangers" font-size="28" text-anchor="middle" fill="${ink}">EMPFEHLUNG</text><text x="556" y="230" font-family="Comic Neue" font-weight="700" font-size="40" text-anchor="middle" fill="#999">…</text></g>`;
+  `<rect x="476" y="130" width="160" height="184" fill="#fff6c9" stroke="${ink}" stroke-width="4"/><text x="556" y="176" font-family="Lilita One" font-size="22" text-anchor="middle" fill="${ink}">EMPFEHLUNG</text><text x="556" y="230" font-family="Comic Neue" font-weight="700" font-size="40" text-anchor="middle" fill="#999">…</text></g>`;
 const s = C.panel('p1', '20,20 780,20 780,380 20,380', 'url(#pT)', inhalt + C.laut(40, 360, 'TADA!', 54, -8));
 document.getElementById('bild').innerHTML = `<svg xmlns="http://www.w3.org/2000/svg" width="800" height="400" viewBox="0 0 800 400">${C.defs}${C.papier(800, 400)}${s}${C.korn(800, 400)}</svg>`;
 </script>

diff --git a/mathe-trainer/src/pages/quadratische_funktionen/scheitelpunkt_einstieg/bilder-quelle/lichtwerk-merkkarte.bild.html b/mathe-trainer/src/pages/quadratische_funktionen/scheitelpunkt_einstieg/bilder-quelle/lichtwerk-merkkarte.bild.html
@@ -1,7 +1,7 @@
 <!doctype html>
 <!-- Das Lichtwerk, Handlungsprodukt Merkkarte „Scheitelpunkt berechnen“. Bildwelt Comic / manga.
      Rendern: node scripts/bilder-rendern.cjs src/pages/quadratische_funktionen/scheitelpunkt_einstieg -->
-<html><head><meta charset="utf-8"><link href="https://fonts.googleapis.com/css2?family=Bangers&family=Comic+Neue:wght@700&display=swap" rel="stylesheet"><style>body{margin:0}</style>
+<html><head><meta charset="utf-8"><link href="https://fonts.googleapis.com/css2?family=Bangers&family=Lilita+One&family=Comic+Neue:wght@700&display=swap" rel="stylesheet"><style>body{margin:0}</style>
 <script src="_comic.js"></script></head><body>
 <div id="bild" style="width:800px;height:400px"></div>
 <script>
@@ -9,10 +9,10 @@ const C = CO('#141414', '#ffffff');
 const ink = '#141414';
 let inhalt = `<g transform="rotate(-2 400 210)"><rect x="100" y="66" width="600" height="290" fill="#fff" stroke="${ink}" stroke-width="6"/>
 <rect x="100" y="66" width="600" height="64" fill="${ink}"/>
-<text x="130" y="112" font-family="Bangers" font-size="40" fill="#fff" letter-spacing="2">SCHEITELPUNKT BERECHNEN</text>`;
+<text x="130" y="112" font-family="Lilita One" font-size="40" fill="#fff" letter-spacing="2">SCHEITELPUNKT BERECHNEN</text>`;
 ['a, b, c ablesen', 'x<tspan baseline-shift="sub" font-size="19">S</tspan> = −b : (2a)', 'x<tspan baseline-shift="sub" font-size="19">S</tspan> einsetzen → y<tspan baseline-shift="sub" font-size="19">S</tspan>', 'S( x<tspan baseline-shift="sub" font-size="19">S</tspan> | y<tspan baseline-shift="sub" font-size="19">S</tspan> ) angeben'].forEach((t, i) => {
   const y = 172 + i * 46;
-  inhalt += `<circle cx="146" cy="${y - 10}" r="18" fill="#fff" stroke="${ink}" stroke-width="4"/><text x="146" y="${y}" font-family="Bangers" font-size="26" text-anchor="middle" fill="${ink}">${i + 1}</text><text x="180" y="${y}" font-family="Comic Neue" font-weight="700" font-size="27" fill="${ink}">${t}</text>`;
+  inhalt += `<circle cx="146" cy="${y - 10}" r="18" fill="#fff" stroke="${ink}" stroke-width="4"/><text x="146" y="${y}" font-family="Lilita One" font-size="26" text-anchor="middle" fill="${ink}">${i + 1}</text><text x="180" y="${y}" font-family="Comic Neue" font-weight="700" font-size="27" fill="${ink}">${t}</text>`;
 });
 const P = (x) => `${560 + x * 26},${330 - (6 - (x - 2.5) ** 2) * 26}`;
 inhalt += `<polyline points="${Array.from({ length: 51 }, (_, i) => P(i / 10)).join(' ')}" fill="none" stroke="${ink}" stroke-width="5"/><line x1="${560 + 2.5 * 26}" y1="160" x2="${560 + 2.5 * 26}" y2="340" stroke="${ink}" stroke-width="3" stroke-dasharray="8 6"/><circle cx="${560 + 2.5 * 26}" cy="${330 - 6 * 26}" r="10" fill="#fff" stroke="${ink}" stroke-width="4"/></g>`;

diff --git a/mathe-trainer/src/pages/trigonometrie/strecken_einstieg/bilder-quelle/drehleiter-karte.bild.html b/mathe-trainer/src/pages/trigonometrie/strecken_einstieg/bilder-quelle/drehleiter-karte.bild.html
@@ -1,7 +1,7 @@
 <!doctype html>
 <!-- Die Drehleiter, Handlungsprodukt (klein, 800 × 400). Bildwelt Comic / pop: Karteikarte „Fehlende Seite berechnen“ mit kleiner Skizze und drei leeren Schritten.
      Rendern: node scripts/bilder-rendern.cjs src/pages/trigonometrie/strecken_einstieg -->
-<html><head><meta charset="utf-8"><link href="https://fonts.googleapis.com/css2?family=Bangers&family=Comic+Neue:wght@700&display=swap" rel="stylesheet"><style>body{margin:0}</style>
+<html><head><meta charset="utf-8"><link href="https://fonts.googleapis.com/css2?family=Bangers&family=Lilita+One&family=Comic+Neue:wght@700&display=swap" rel="stylesheet"><style>body{margin:0}</style>
 <script src="_comic.js"></script></head><body>
 <div id="bild" style="width:800px;height:400px"></div>
 <script>
@@ -11,11 +11,11 @@ let s = '';
 s += `<rect width="800" height="400" fill="url(#pT)"/>`;
 s += `<g transform="rotate(-2 400 200)"><rect x="70" y="40" width="660" height="320" fill="#fff" stroke="${ink}" stroke-width="6"/><rect x="78" y="48" width="660" height="320" fill="none" stroke="${ink}" stroke-width="0"/>
   <rect x="70" y="40" width="660" height="64" fill="${k}" stroke="${ink}" stroke-width="6"/>
-  <text x="400" y="86" text-anchor="middle" font-family="Bangers" font-size="40" fill="#fff" letter-spacing="2">FEHLENDE SEITE BERECHNEN</text>
+  <text x="400" y="86" text-anchor="middle" font-family="Lilita One" font-size="32" fill="#fff" letter-spacing="1">FEHLENDE SEITE BERECHNEN</text>
   <polygon points="110,320 270,320 270,150" fill="#fbece3" stroke="${ink}" stroke-width="5" stroke-linejoin="round"/>
   <line x1="110" y1="320" x2="270" y2="150" stroke="${k}" stroke-width="8" stroke-linecap="round"/>
   <path d="M248 320 v-22 h22" fill="none" stroke="${ink}" stroke-width="3"/>
-  ${[0, 1, 2].map(i => `<text x="320" y="${170 + i * 66}" font-family="Bangers" font-size="40" fill="${k}">${i + 1}.</text><line x1="360" y1="${172 + i * 66}" x2="690" y2="${172 + i * 66}" stroke="#9aa3ab" stroke-width="3" stroke-dasharray="6 8"/>`).join('')}
+  ${[0, 1, 2].map(i => `<text x="320" y="${170 + i * 66}" font-family="Lilita One" font-size="40" fill="${k}">${i + 1}.</text><line x1="360" y1="${172 + i * 66}" x2="690" y2="${172 + i * 66}" stroke="#9aa3ab" stroke-width="3" stroke-dasharray="6 8"/>`).join('')}
   </g>`;
 s += `<g transform="rotate(25 690 40)"><rect x="660" y="10" width="26" height="80" rx="13" fill="none" stroke="#666" stroke-width="6"/></g>`;
 document.getElementById('bild').innerHTML = `<svg xmlns="http://www.w3.org/2000/svg" width="800" height="400" viewBox="0 0 800 400">${C.defs}${s}${C.korn(800, 400)}</svg>`;

diff --git a/mathe-trainer/src/pages/daten_und_zufall/lernsituationen/kennwerte/bilder-quelle/pizzabote-steckbrief.bild.html b/mathe-trainer/src/pages/daten_und_zufall/lernsituationen/kennwerte/bilder-quelle/pizzabote-steckbrief.bild.html
@@ -1,17 +1,17 @@
 <!doctype html>
 <!-- Der Pizzabote, Handlungsprodukt: Storyboard-Karte „Steckbrief Blitz-Pizza“ mit Zahlengerade und vier Kennwerten. Bildwelt Comic / Storyboard.
      Rendern: node scripts/bilder-rendern.cjs src/pages/daten_und_zufall/lernsituationen/kennwerte -->
-<html><head><meta charset="utf-8"><link href="https://fonts.googleapis.com/css2?family=Bangers&family=Comic+Neue:wght@700&display=swap" rel="stylesheet"><style>body{margin:0}</style><script src="_storyboard.js"></script></head><body>
+<html><head><meta charset="utf-8"><link href="https://fonts.googleapis.com/css2?family=Bangers&family=Lilita+One&family=Comic+Neue:wght@700&display=swap" rel="stylesheet"><style>body{margin:0}</style><script src="_storyboard.js"></script></head><body>
 <div id="bild" style="width:800px;height:400px"></div>
 <script>
 const S = SB('#a0275e');
 const X = (v) => 90 + (v - 10) * 17;
 let inhalt = S.grau('M40 60 H760 V360 H40 Z', 0) +
-  `<text x="70" y="120" font-family="Bangers" font-size="40" letter-spacing="1" fill="#2b2b2b">STECKBRIEF: BLITZ-PIZZA</text>` +
+  `<text x="70" y="120" font-family="Lilita One" font-size="40" letter-spacing="1" fill="#2b2b2b">STECKBRIEF: BLITZ-PIZZA</text>` +
   `<line x1="${X(10)}" y1="192" x2="${X(46)}" y2="192" stroke="#2b2b2b" stroke-width="4"/>` + [10, 20, 30, 40].map(v => `<line x1="${X(v)}" y1="184" x2="${X(v)}" y2="200" stroke="#2b2b2b" stroke-width="3"/>`).join("") + [12, 14, 15, 15, 16, 17, 18, 19, 20, 44].map((v, i, a) => `<circle cx="${X(v)}" cy="${180 - (a.slice(0, i).filter(w => w === v).length) * 15}" r="7" fill="#a0275e"/>`).join('') +
   [10, 20, 30, 40].map(v => S.notiz(X(v), 222, String(v), 20, 'middle')).join('') +
   S.notiz(70, 280, 'Spannweite: …   Modalwert: …', 26) + S.notiz(70, 320, 'Median: …   Mittelwert: …', 26) +
-  S.akz('M560 250 H740 V340 H560 Z') + `<text x="650" y="305" text-anchor="middle" font-family="Bangers" font-size="30" fill="#fff">MEIN URTEIL</text>`;
+  S.akz('M560 250 H740 V340 H560 Z') + `<text x="650" y="305" text-anchor="middle" font-family="Lilita One" font-size="30" fill="#fff">MEIN URTEIL</text>`;
 const g = S.rahmen(40, 60, 720, 300, 4, 'Heft, Draufsicht', inhalt);
 document.getElementById('bild').innerHTML = `<svg xmlns="http://www.w3.org/2000/svg" width="800" height="400" viewBox="0 0 800 400">${S.defs}${S.papier(800, 400)}${g}${S.korn(800, 400)}</svg>`;
 </script>
